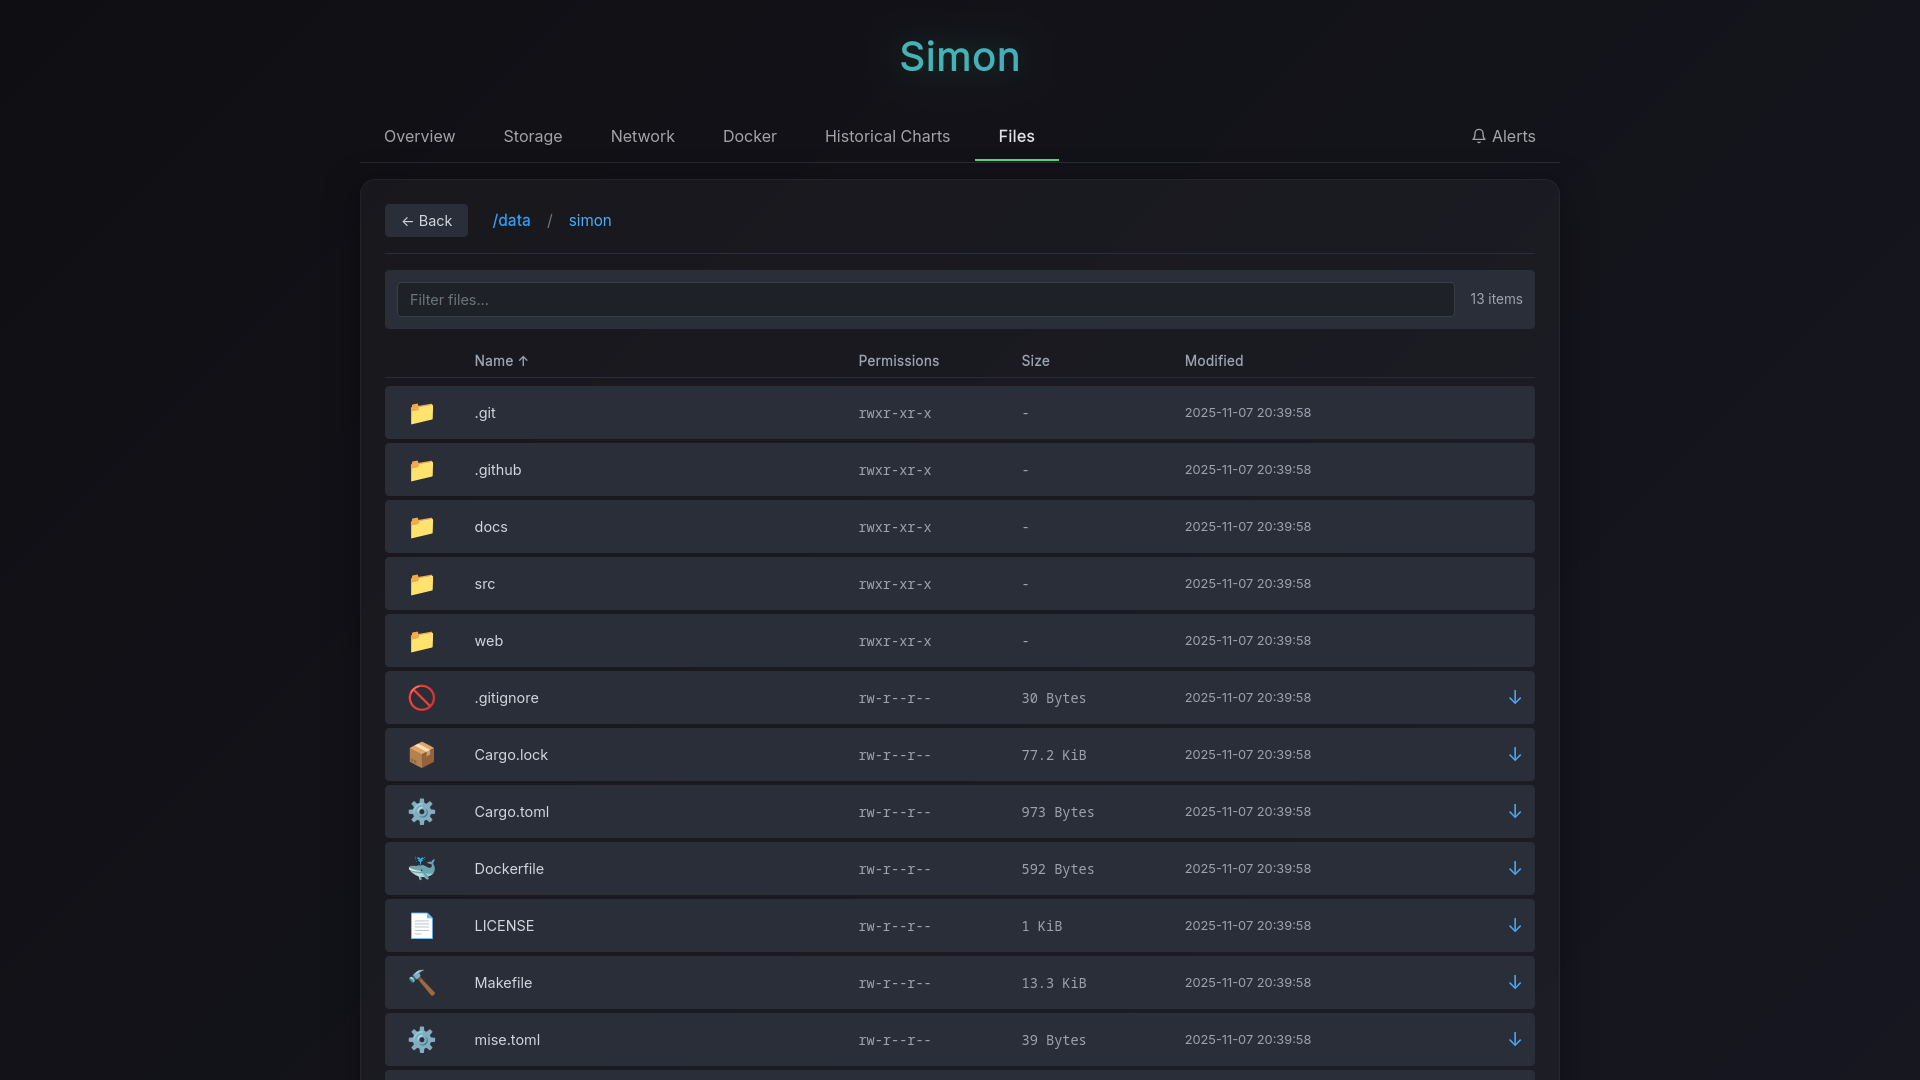
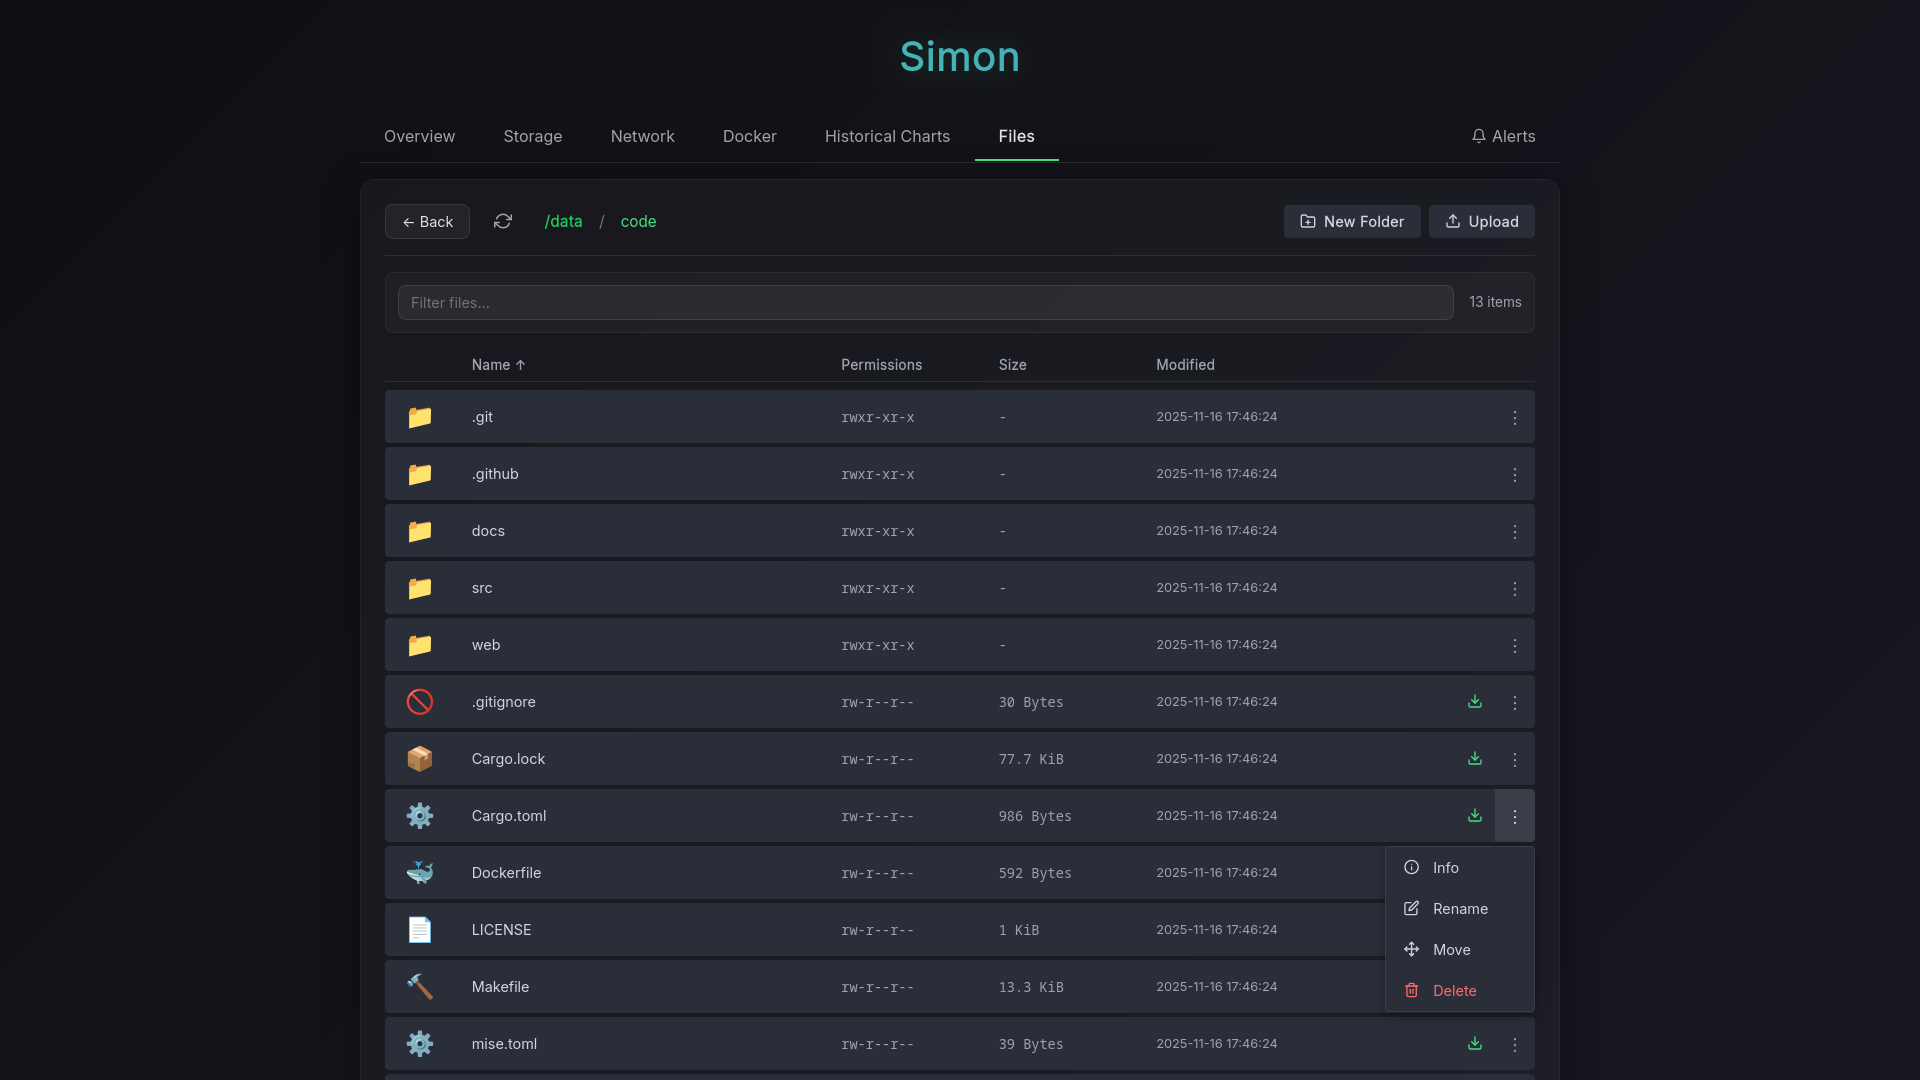
docs: update screenshots

diff --git a/docs/SCREENSHOTS.md b/docs/SCREENSHOTS.md
@@ -3,7 +3,7 @@
 ## Demo Video
 
 
-https://github.com/user-attachments/assets/c8de7765-db7d-49cd-8182-54b91091d01c
+https://github.com/user-attachments/assets/add0e7f3-5f87-408e-a3bd-6189c1c1ee4d
 
 
 ---
@@ -64,6 +64,12 @@ https://github.com/user-attachments/assets/c8de7765-db7d-49cd-8182-54b91091d01c
 <p align="center">
   <img src="media/screenshots/file-preview.png" alt="File Preview">
   <br><em>Preview file contents directly in browser with syntax highlighting</em>
+</p>
+
+### File Upload
+<p align="center">
+  <img src="media/screenshots/file-upload.png" alt="File Preview">
+  <br><em>Upload files and folders</em>
 </p>
 
 ---
